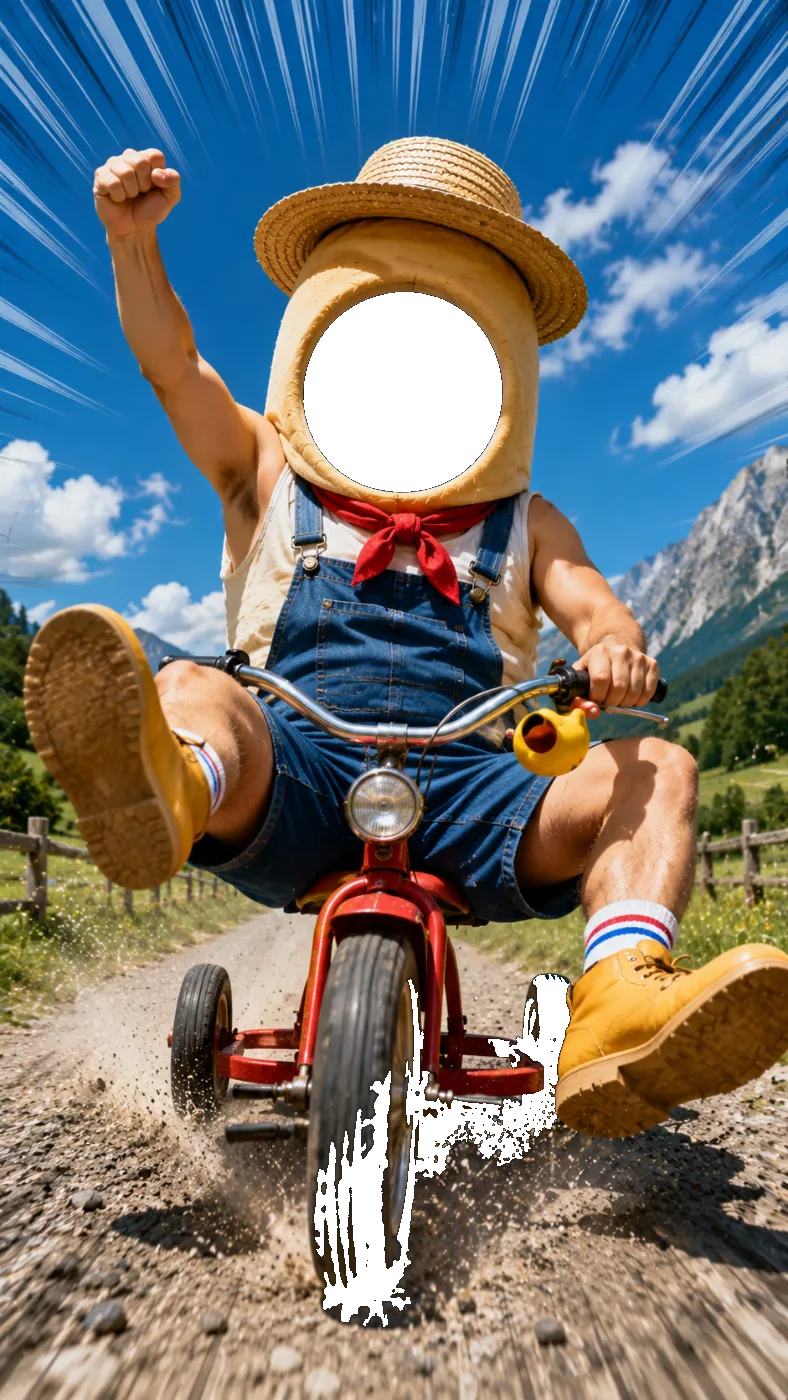
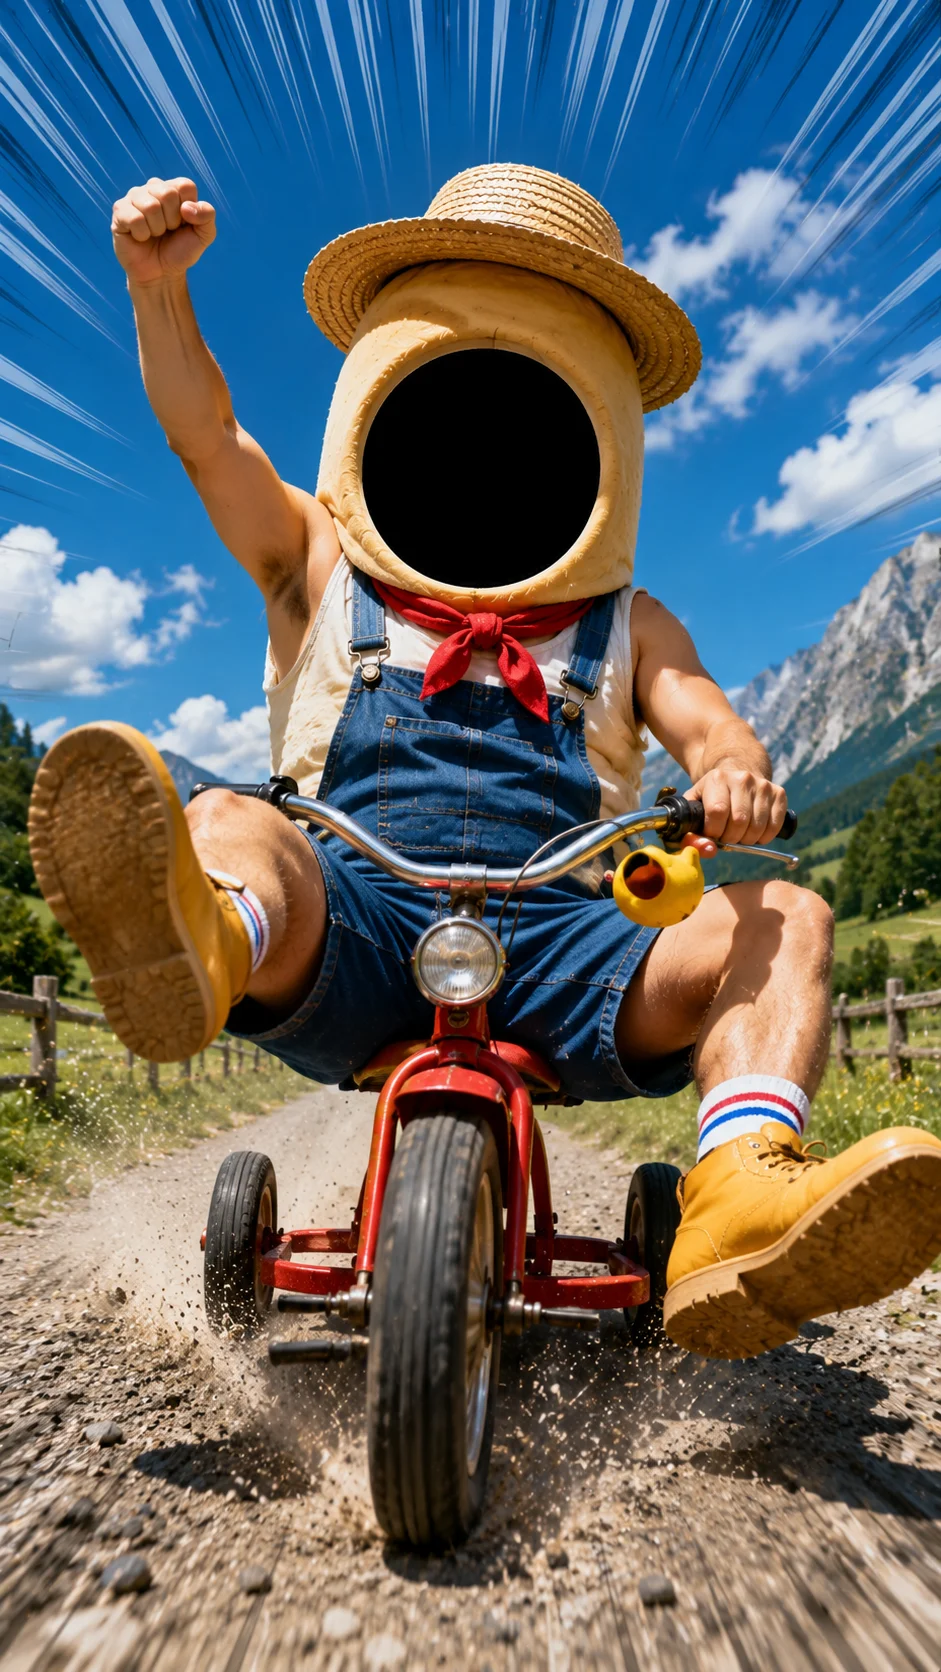
顔ハメの絵を、抜く前に戻した
黒を抜いたせいで、宇宙の枠は空そのものが消えていた（2026-08-11、伊波さん
「宇宙が消えた、黒全部抜かれた」）。顔ハメは穴の形に切り抜いたカメラを
重ねる作りに戻したので、絵の黒を抜く必要がそもそも無い。

絵が入れ替わるよう ?v= と貯金の名前も上げた。

Changed region(s): [[0.3959, 0.6757, 0.731, 0.9521], [0.3655, 0.1843, 0.6396, 0.3686]]

diff --git a/public/sw.js b/public/sw.js
@@ -15,7 +15,7 @@
 // 枠の絵はファイル名を変えずに中身だけ差し替えることがあるので、
 // 絵を作り直したら必ずここも変えること。変えないと、古い絵を持っている
 // 端末には新しい絵が永久に届かない（2026-08-11、顔ハメが黒いままだった）
-const CACHE = 'tinycube-2026-08-11b';
+const CACHE = 'tinycube-2026-08-11c';
 
 // 中身が変わるとファイル名も変わるもの（Vite が付ける英数字や、枠の絵）。
 // 一度取ったら、そのまま使い続けてよい

diff --git a/src/frames.ts b/src/frames.ts
@@ -164,6 +164,6 @@ export function loadFrame(frame: Frame): Promise<HTMLImageElement> {
     // ファイル名を変えずに中身だけ差し替えることがあるので、住所を変えて
     // 別物として取りに行かせる。作り直したらこの数を上げること
     // （2026-08-11、顔ハメが古いまま黒く出ていた）
-    img.src = frame.file.startsWith('data:') ? frame.file : frame.file + '?v=2';
+    img.src = frame.file.startsWith('data:') ? frame.file : frame.file + '?v=3';
   });
 }
